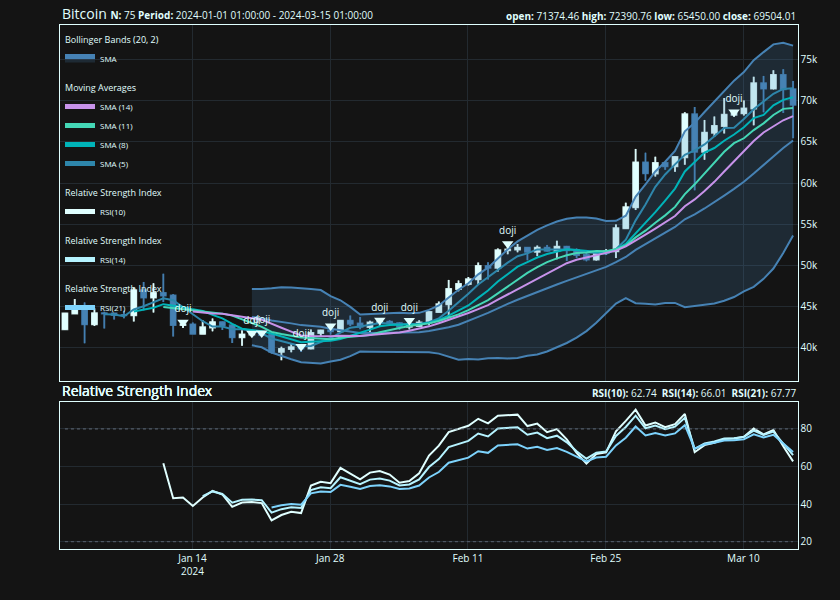
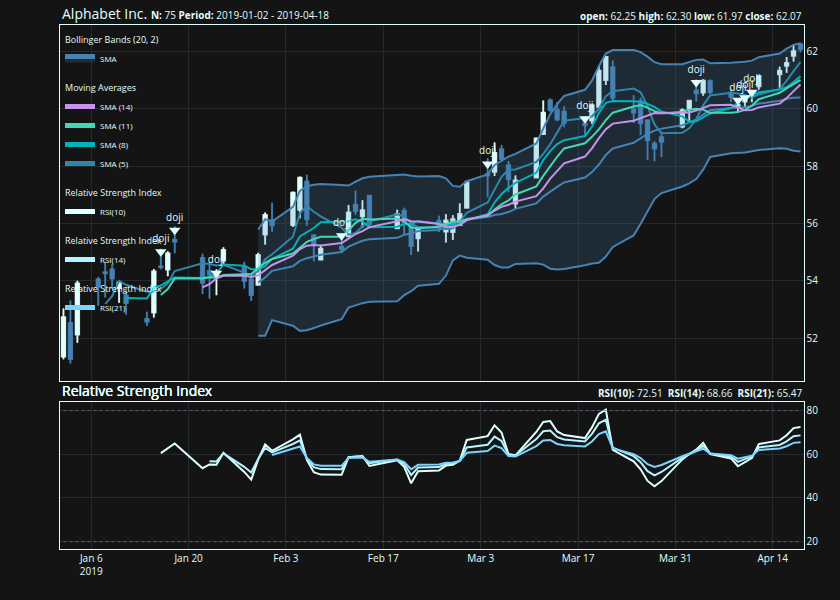
:books: Updated README
* Added <xts>-method mention, and removed the minimal
  dependency argument - even though xts and zoo are suggested
  it is still a departure from the minimal dependency framework.

* Replaced BTC with GOOGL to demonstrate <xts> compatibility with
  class in and class out condtion.

diff --git a/README.md b/README.md
@@ -63,28 +63,36 @@ pak::pak("serkor1/ta-lib-R")
 
 ## Quick start
 
-All functions provide S3 methods for `<data.frame>`, `<matrix>`,
-and—where applicable—`<vector>` inputs. The general convention is
-simple: the output uses the same container type as the input.
+All functions provide S3 methods for `<xts>`, `<data.frame>`,
+`<matrix>`, and—where applicable—`<vector>` inputs. The general
+convention is simple: the output uses the same container type as the
+input.
 
 ``` r
 ## calculate the
 ## relative strength index
 relative_strength_index <- talib::RSI(
-    talib::BTC
+    talib::GOOGL
 )
+
+## check class equivalence
+inherits(
+    relative_strength_index, 
+    class(talib::GOOGL)
+)
+#> [1] TRUE
 
 ## display results
 tail(
     relative_strength_index
 )
-#>                          RSI
-#> 2024-12-26 01:00:00 46.48851
-#> 2024-12-27 01:00:00 43.85488
-#> 2024-12-28 01:00:00 45.93888
-#> 2024-12-29 01:00:00 43.12301
-#> 2024-12-30 01:00:00 41.47686
-#> 2024-12-31 01:00:00 43.37358
+#>                 RSI
+#> 2021-12-22 53.47421
+#> 2021-12-23 54.45979
+#> 2021-12-27 56.42226
+#> 2021-12-28 53.37121
+#> 2021-12-29 53.28979
+#> 2021-12-30 52.07450
 ```
 
 Indicator outputs preserve input length, which keeps results aligned
@@ -94,19 +102,19 @@ with the original OHLCV rows.
 ## combine multiple
 ## indicators
 features <- cbind(
-    talib::relative_strength_index(talib::BTC),
-    talib::bollinger_bands(talib::BTC),
-    talib::engulfing(talib::BTC)
+    talib::relative_strength_index(talib::GOOGL),
+    talib::bollinger_bands(talib::GOOGL),
+    talib::engulfing(talib::GOOGL)
 )
 
 tail(features)
-#>                          RSI UpperBand MiddleBand LowerBand CDLENGULFING
-#> 2024-12-26 01:00:00 46.48851  106053.7   99594.80  93135.86         -100
-#> 2024-12-27 01:00:00 43.85488  106179.5   99305.69  92431.90            0
-#> 2024-12-28 01:00:00 45.93888  106051.3   99002.74  91954.18            0
-#> 2024-12-29 01:00:00 43.12301  106223.8   98814.94  91406.11         -100
-#> 2024-12-30 01:00:00 41.47686  106452.7   98613.30  90773.93            0
-#> 2024-12-31 01:00:00 43.37358  106283.3   98223.05  90162.77            0
+#>                 RSI UpperBand MiddleBand LowerBand CDLENGULFING
+#> 2021-12-22 53.47421  149.1432   144.4920  139.8408            0
+#> 2021-12-23 54.45979  149.2513   144.5318  139.8124            0
+#> 2021-12-27 56.42226  149.6263   144.8180  140.0097            0
+#> 2021-12-28 53.37121  149.7444   144.8758  140.0072         -100
+#> 2021-12-29 53.28979  149.8398   145.1137  140.3876            0
+#> 2021-12-30 52.07450  149.7308   145.3711  141.0115         -100
 ```
 
 ## Charting
@@ -118,16 +126,16 @@ flexibility:
 
 ``` r
 ## subset data and
-## store as 'BTC'
-BTC <- talib::BTC[1:75, ]
+## store as 'GOOGL'
+GOOGL <- talib::GOOGL[1:75, ]
 
 ## construct chart in a brace block
 ## alternatively use `|>`
 {
     ## initialize main chart
     talib::chart(
-        x     = BTC,
-        title = "Bitcoin"
+        x     = GOOGL,
+        title = "Alphabet Inc."
     )
 
     ## add Bollinger Bands to
